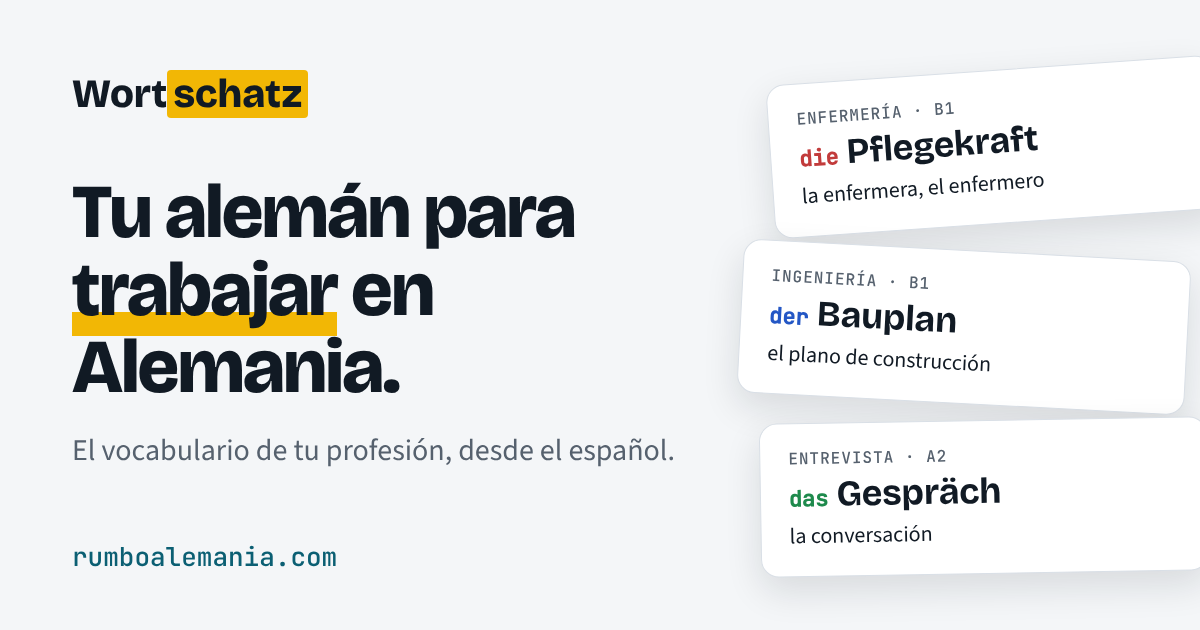
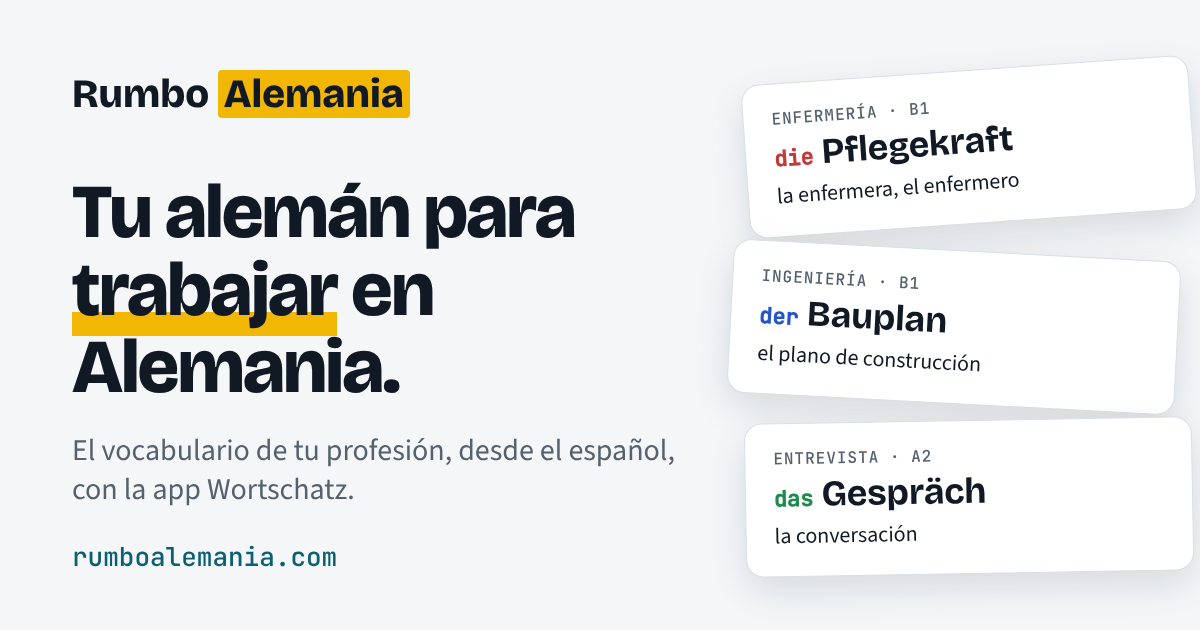
Rebrand landing as Rumbo Alemania, keep Wortschatz as the app name
Claude-Session: https://claude.ai/code/session_016rSxy5ysBbakx3UhRWqVBd

diff --git a/index.html b/index.html
@@ -3,7 +3,7 @@
 <head>
 <meta charset="utf-8">
 <meta name="viewport" content="width=device-width,initial-scale=1">
-<title>Wortschatz · Tu alemán para trabajar en Alemania</title>
+<title>Rumbo Alemania · Tu alemán para trabajar en Alemania</title>
 <meta name="description" content="Aprende el alemán de tu profesión, desde el español. Únete a la lista de espera.">
 <link rel="canonical" href="https://rumboalemania.com/">
 <link rel="icon" href="favicon.svg" type="image/svg+xml">
@@ -11,14 +11,14 @@
 <meta name="theme-color" content="#0B5F73">
 <meta property="og:type" content="website">
 <meta property="og:locale" content="es_ES">
-<meta property="og:site_name" content="Wortschatz">
+<meta property="og:site_name" content="Rumbo Alemania">
 <meta property="og:url" content="https://rumboalemania.com/">
 <meta property="og:title" content="Tu alemán para trabajar en Alemania">
 <meta property="og:description" content="Aprende el vocabulario de tu profesión, desde el español. Únete a la lista de espera y prueba la app gratis.">
 <meta property="og:image" content="https://rumboalemania.com/og.png">
 <meta property="og:image:width" content="1200">
 <meta property="og:image:height" content="630">
-<meta property="og:image:alt" content="Wortschatz: tarjetas de vocabulario alemán con der, die y das">
+<meta property="og:image:alt" content="Rumbo Alemania: tarjetas de vocabulario alemán con der, die y das">
 <meta name="twitter:card" content="summary_large_image">
 <meta name="twitter:title" content="Tu alemán para trabajar en Alemania">
 <meta name="twitter:description" content="Aprende el vocabulario de tu profesión, desde el español. Únete a la lista de espera.">
@@ -69,6 +69,8 @@ h1,h2,h3{font-family:var(--display);line-height:1.08;text-wrap:balance;margin:0}
 .ghost:hover{background:var(--surface)}
 .ghost:focus-visible{outline:3px solid var(--mark);outline-offset:2px}
 @media (max-width:520px){.ghost{margin:12px 0 0}}
+.top{gap:16px}
+@media (max-width:420px){.top .eyebrow{display:none}}
 footer a{color:inherit}
 
 /* word cards */
@@ -142,7 +144,7 @@ footer{padding-block:32px;color:var(--muted);font-size:.9rem;border-top:1px soli
 <body>
 <div class="wrap">
   <header class="top">
-    <a class="logo" href="#">Wort<span>schatz</span></a>
+    <a class="logo" href="#">Rumbo <span>Alemania</span></a>
     <a href="#lista" class="eyebrow">Acceso anticipado</a>
   </header>
 
@@ -180,7 +182,7 @@ footer{padding-block:32px;color:var(--muted);font-size:.9rem;border-top:1px soli
   <section id="para-quien">
     <p class="eyebrow">Para quién es</p>
     <h2>Para quien ya tiene una meta en Alemania</h2>
-    <p class="lead">Una oferta de trabajo, una visa, el reconocimiento de tu título o el examen B1. Wortschatz te enseña primero las palabras que vas a usar en tu puesto, no las del zoológico.</p>
+    <p class="lead">Una oferta de trabajo, una visa, el reconocimiento de tu título o el examen B1. Nuestra app, Wortschatz, te enseña primero las palabras que vas a usar en tu puesto, no las del zoológico.</p>
     <ul class="chips">
       <li>Enfermería y cuidados</li><li>Medicina</li><li>Ingeniería</li><li>Tecnología (TI)</li><li>Hostelería</li><li>Oficios técnicos</li>
     </ul>
@@ -273,7 +275,7 @@ footer{padding-block:32px;color:var(--muted);font-size:.9rem;border-top:1px soli
     </div>
   </section>
 
-  <footer>Wortschatz · 2026 · Hecho para quienes empiezan una nueva vida en Alemania. · <a href="privacidad.html">Privacidad</a></footer>
+  <footer>Rumbo Alemania · 2026 · Hecho para quienes empiezan una nueva vida en Alemania. · <a href="privacidad.html">Privacidad</a></footer>
 </div>
 
 <script>

diff --git a/privacidad.html b/privacidad.html
@@ -3,8 +3,8 @@
 <head>
 <meta charset="utf-8">
 <meta name="viewport" content="width=device-width,initial-scale=1">
-<title>Privacidad · Wortschatz</title>
-<meta name="description" content="Cómo trata Wortschatz los datos de la lista de espera.">
+<title>Privacidad · Rumbo Alemania</title>
+<meta name="description" content="Cómo trata Rumbo Alemania los datos de la lista de espera.">
 <meta name="robots" content="noindex">
 <link rel="icon" href="favicon.svg" type="image/svg+xml">
 <link rel="stylesheet" href="fonts.css">
@@ -30,14 +30,14 @@ footer{margin-top:48px;padding-top:20px;border-top:1px solid var(--line);color:v
 </head>
 <body>
 <div class="wrap">
-  <a class="logo" href="./">Wort<span>schatz</span></a>
+  <a class="logo" href="./">Rumbo <span>Alemania</span></a>
   <h1>Política de privacidad</h1>
   <p class="muted">Última actualización: 16 de octubre de 2026</p>
 
   <p>Esta página explica qué datos recogemos en rumboalemania.com, para qué los usamos y qué derechos tienes. La escribimos de forma breve y clara, conforme al Reglamento General de Protección de Datos (RGPD) de la Unión Europea.</p>
 
   <h2>Quién es el responsable</h2>
-  <p>El responsable del tratamiento es Luis, creador de Wortschatz. Puedes escribirnos en cualquier momento a <a href="mailto:lrojasr93@gmail.com">lrojasr93@gmail.com</a>.</p>
+  <p>El responsable del tratamiento es Luis, creador de Rumbo Alemania y de la app Wortschatz. Puedes escribirnos en cualquier momento a <a href="mailto:lrojasr93@gmail.com">lrojasr93@gmail.com</a>.</p>
 
   <h2>Qué datos recogemos</h2>
   <ul>
@@ -46,7 +46,7 @@ footer{margin-top:48px;padding-top:20px;border-top:1px solid var(--line);color:v
   </ul>
 
   <h2>Para qué los usamos</h2>
-  <p>Usamos tu email solo para avisarte del lanzamiento, darte el acceso anticipado y contarte novedades de Wortschatz. La profesión y el nivel nos ayudan a decidir qué contenidos preparar primero. No vendemos ni cedemos tus datos a nadie para publicidad.</p>
+  <p>Usamos tu email solo para avisarte del lanzamiento, darte el acceso anticipado y contarte novedades de Rumbo Alemania y de Wortschatz. La profesión y el nivel nos ayudan a decidir qué contenidos preparar primero. No vendemos ni cedemos tus datos a nadie para publicidad.</p>
 
   <h2>Base legal</h2>
   <p>Tu consentimiento, que das al marcar la casilla del formulario (art. 6.1.a del RGPD). Puedes retirarlo cuando quieras. Las estadísticas anónimas se basan en nuestro interés legítimo en saber cuántas personas visitan la página (art. 6.1.f).</p>
@@ -66,7 +66,7 @@ footer{margin-top:48px;padding-top:20px;border-top:1px solid var(--line);color:v
   <p>Puedes pedirnos acceder a tus datos, corregirlos, borrarlos, limitar su uso, llevártelos a otro servicio u oponerte a su tratamiento. Basta con escribir a <a href="mailto:lrojasr93@gmail.com">lrojasr93@gmail.com</a>. Cada email que te enviemos incluirá también un enlace para darte de baja.</p>
   <p>Si crees que no tratamos bien tus datos, puedes reclamar ante una autoridad de protección de datos, por ejemplo la de tu estado federado en Alemania o la Agencia Española de Protección de Datos.</p>
 
-  <footer><a href="./">Volver a Wortschatz</a></footer>
+  <footer><a href="./">Volver a Rumbo Alemania</a></footer>
 </div>
 </body>
 </html>
